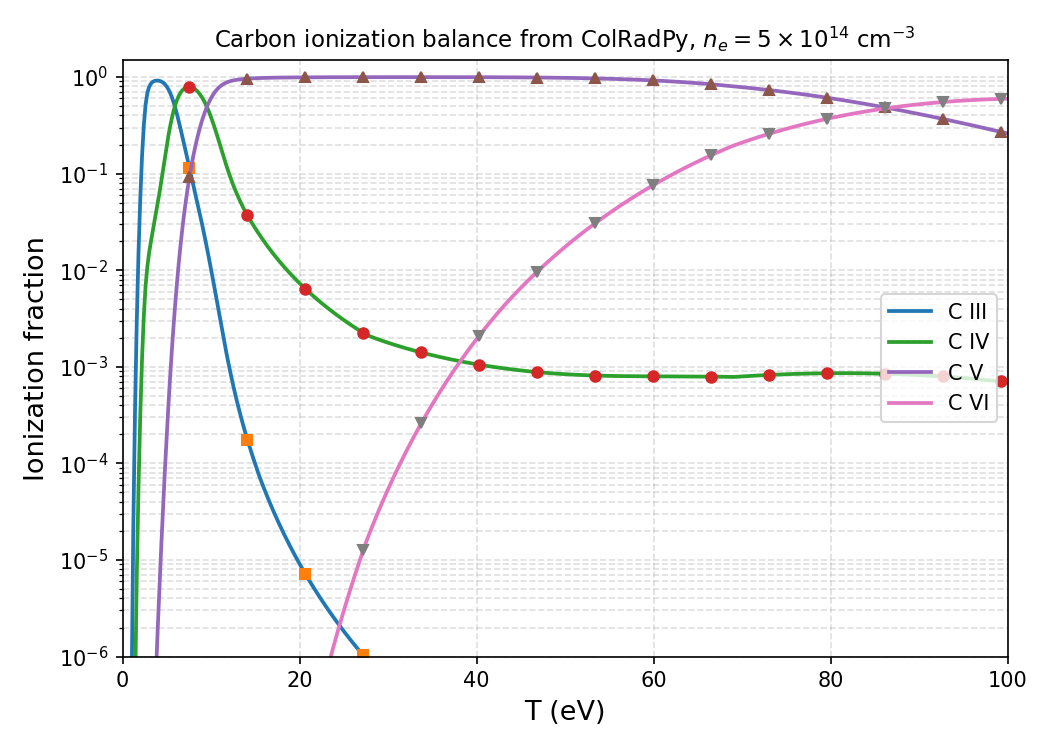
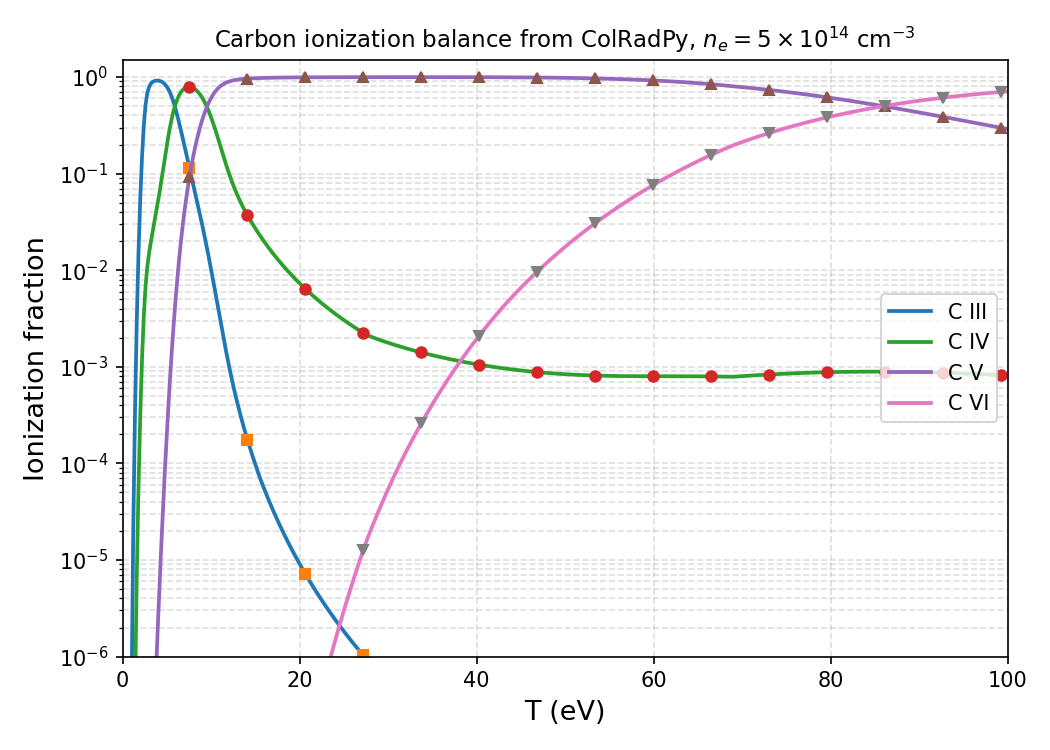
Minor edits/tinkering

Changed region(s): [[0.7314, 0.092, 0.9752, 0.184], [0.7619, 0.4907, 0.9752, 0.5213], [0.6705, 0.4907, 0.701, 0.5213]]

diff --git a/scripts/recreate_chaplin_fig4.py b/scripts/recreate_chaplin_fig4.py
@@ -15,17 +15,19 @@ files = [
     str(atomic_data_dir / "mom97_ls#c5.dat"),  # C VI
 ]
 
+# file check
 for f in files:
     if not Path(f).exists():
         raise FileNotFoundError(f"Missing file: {f}")
 
 metas = [np.array([0]) for _ in files]
 
+# set up temp array and density
 Te = np.linspace(1.0, 100.0, 500)  # eV
 ne = np.array([5.0e14])            # cm^-3
 
 # stops the ionizing upward issue on C VI?
-# ***Not sure if this is correct
+# Not sure if this is correct
 use_ionization = [True, True, True, True, False]
 
 print("\n--- Building ColRadPy ionization balance object ---")
@@ -43,6 +45,7 @@ ib = ionization_balance(
     keep_charge_state_data = False,
 )
 
+# from the ionization_balance class
 ib.populate_ion_matrix()
 
 ion_matrix = ib.data["ion_matrix"]
@@ -52,8 +55,7 @@ print("ion_matrix shape:", ion_matrix.shape)
 print("number of tracked states:", n_states)
 
 # show GCR shapes
-
-print("\n--- GCR shape diagnostics ---")
+print("\n--- GCR shape info ---")
 
 for i, file_path in enumerate(files):
     g = ib.data["cr_data"]["gcrs"][str(i)]
@@ -65,7 +67,6 @@ for i, file_path in enumerate(files):
     print("xcd shape:", g["xcd"].shape)
 
 # Solve ionization balance time-dependently
-
 n0 = np.zeros(n_states)
 n0[0] = 1.0
 
@@ -83,7 +84,7 @@ print("state population sum min:", np.min(np.sum(state_pops, axis=0)))
 print("state population sum max:", np.max(np.sum(state_pops, axis=0)))
 
 
-print("\n--- Raw state diagnostics ---")
+print("\n--- Raw state info ---")
 for i in range(n_states):
     max_val = np.max(state_pops[i, :])
     max_T = Te[np.argmax(state_pops[i, :])]
@@ -98,7 +99,7 @@ charge_fractions = {
     "C VI":  state_pops[4, :],
 }
 
-print("\n--- Charge-state diagnostics ---")
+print("\n--- Charge-state info ---")
 total_charge_fraction = np.zeros_like(Te)
 
 for label, arr in charge_fractions.items():
@@ -122,7 +123,7 @@ plot_config = [
     ("C VI", "v"),
 ]
 
-stride = max(1, len(Te) // 15)
+index = max(1, len(Te) // 15)
 
 for label, marker in plot_config:
     y = np.clip(charge_fractions[label], 1e-30, None)
@@ -131,12 +132,12 @@ for label, marker in plot_config:
         Te,
         y,
         linewidth=1.8,
-        label=label,
+        label = label,
     )
 
     ax.semilogy(
-        Te[::stride],
-        y[::stride],
+        Te[::index],
+        y[::index],
         marker = marker,
         linestyle = "None",
         markersize = 5,